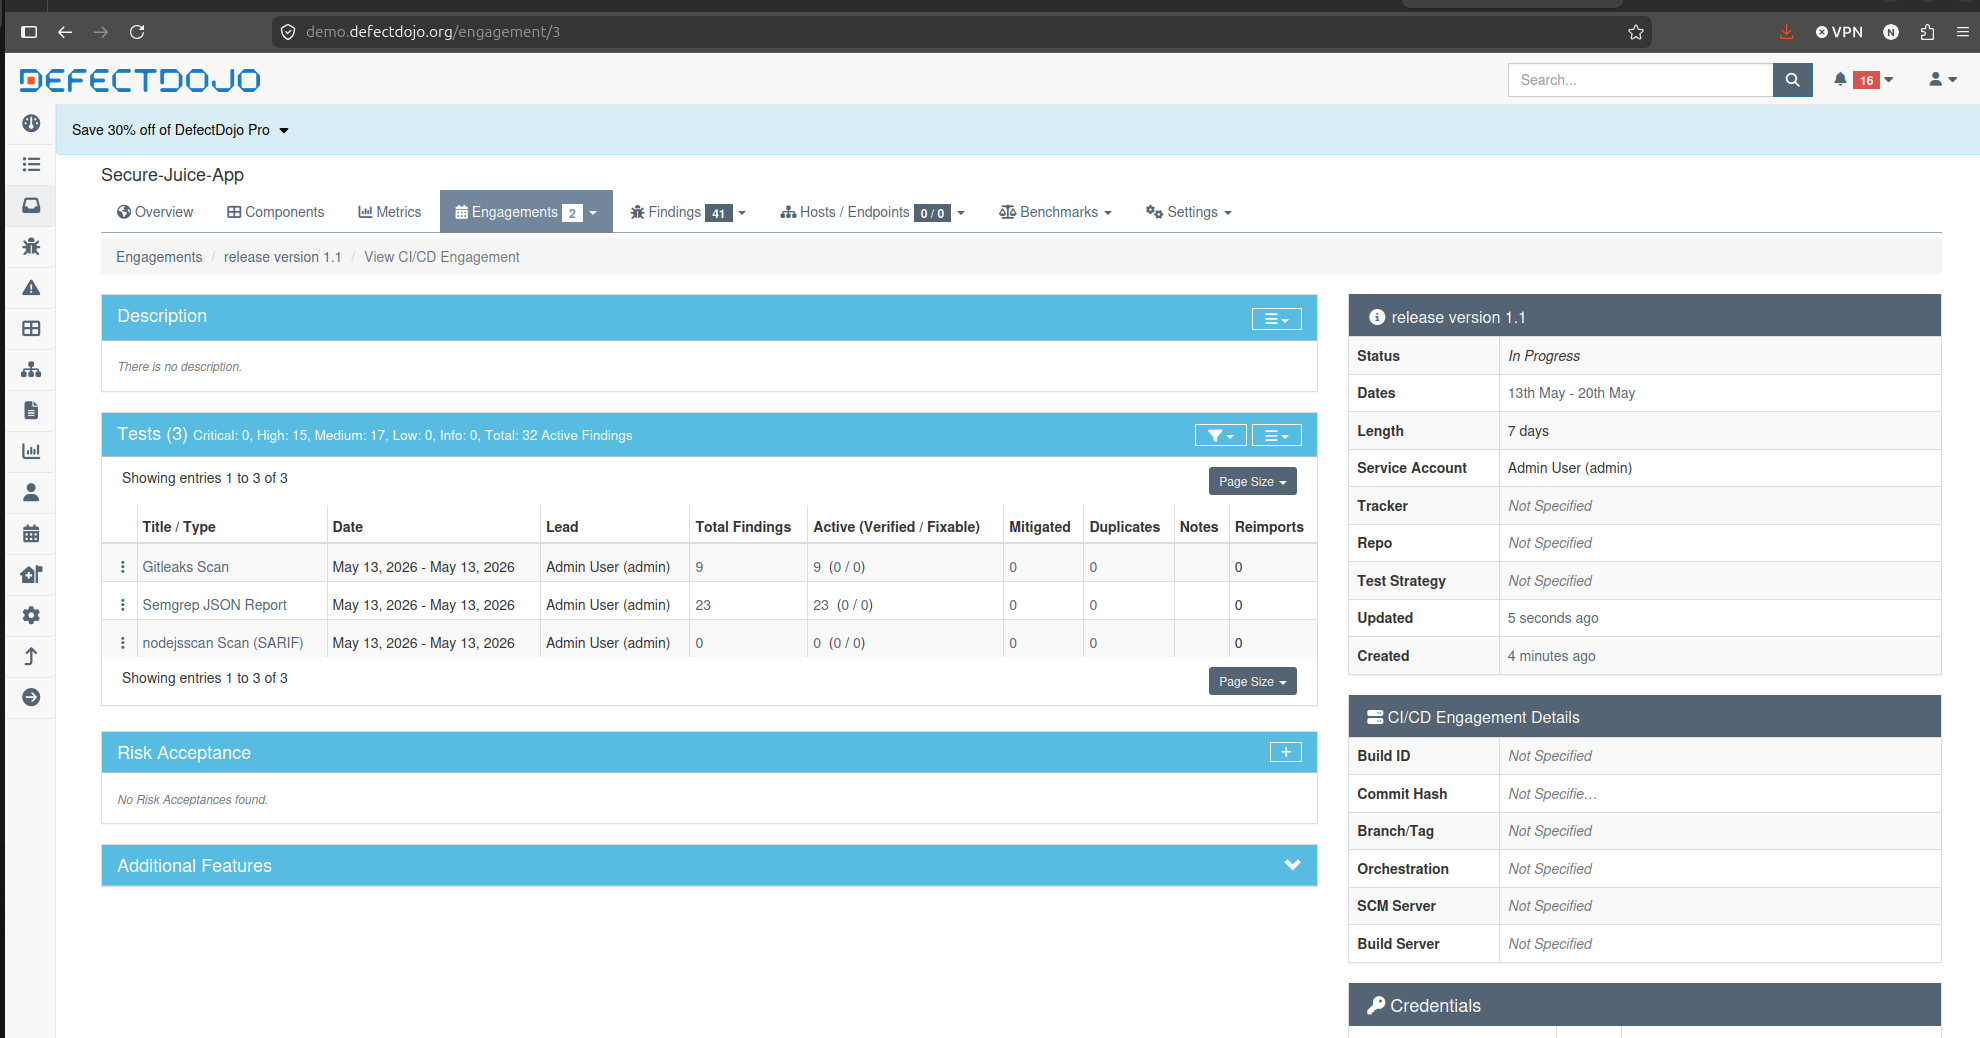
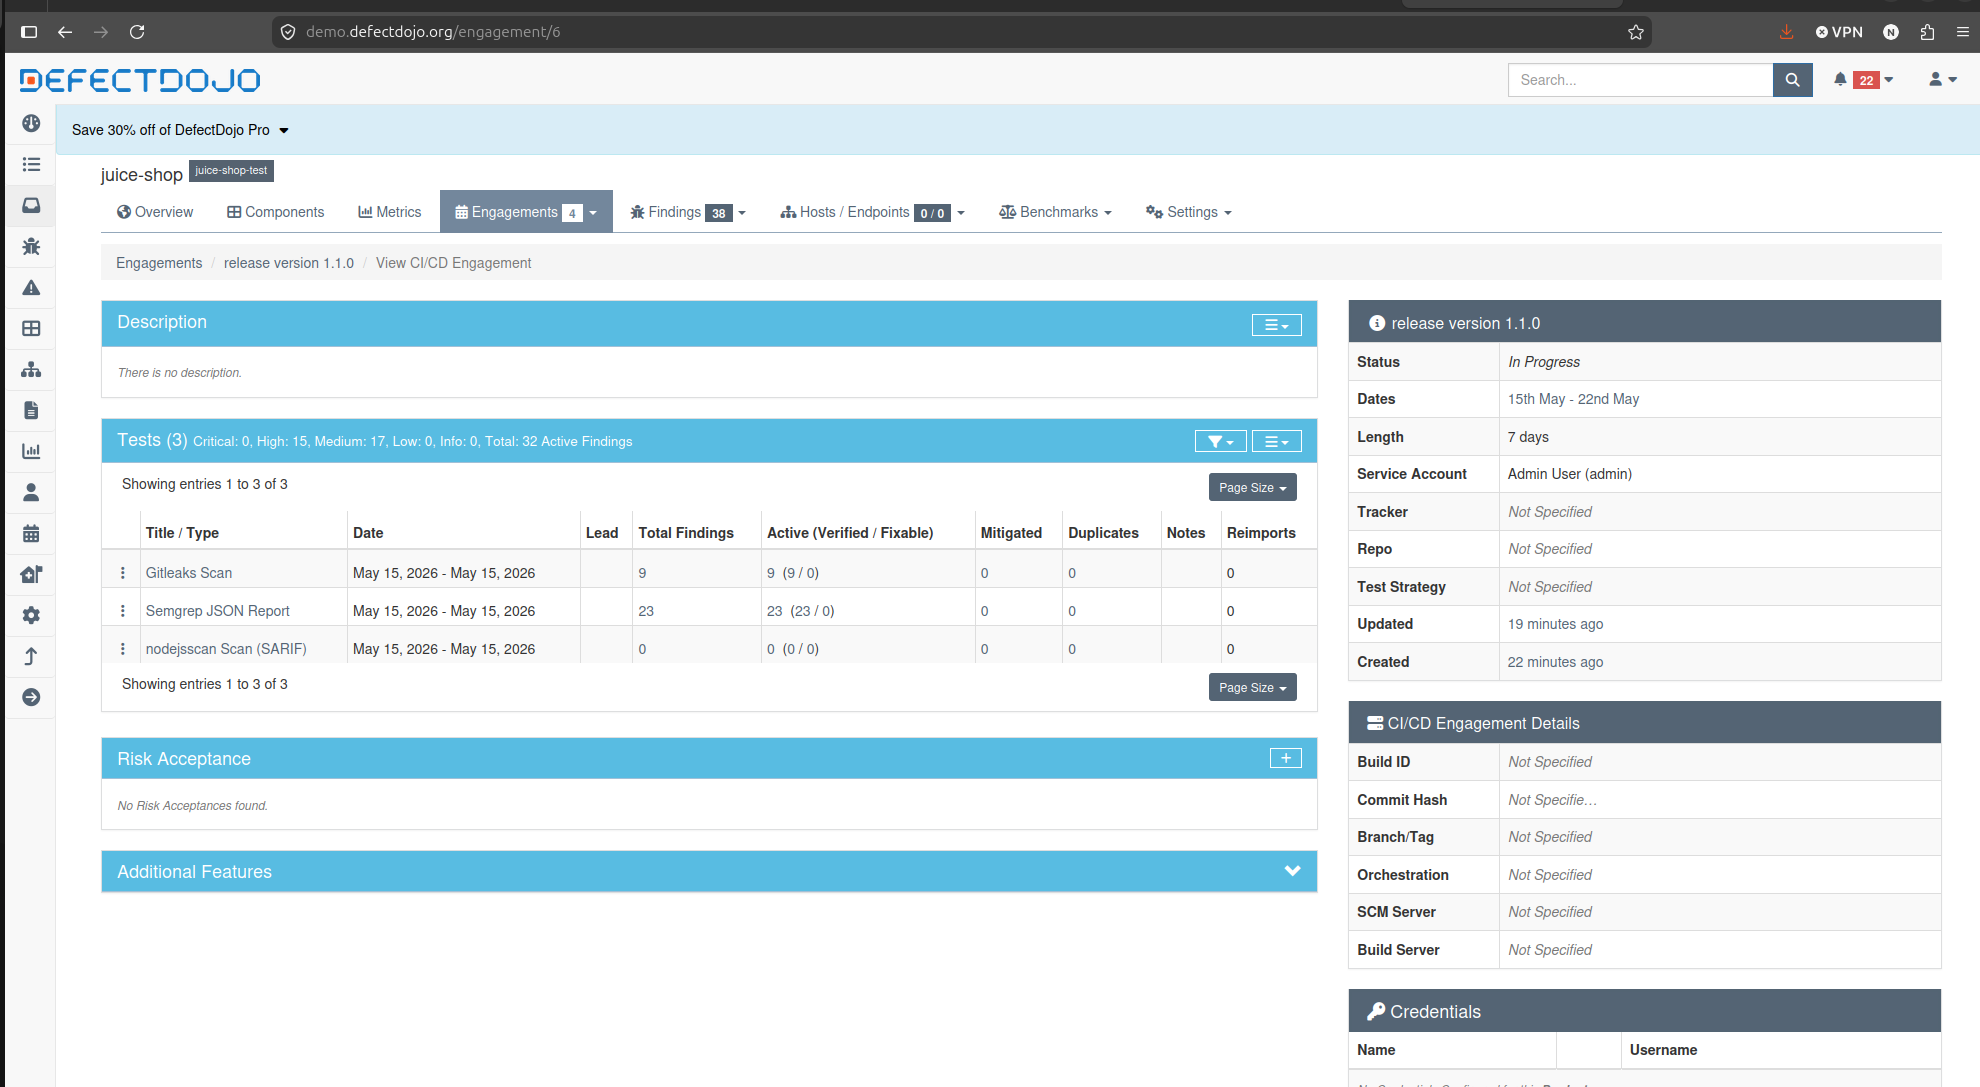
ci: automate DefectDojo report upload via upload_reports job

Changed region(s): [[0.0, 0.0308, 1.0, 1.0], [0.4929, 0.5549, 0.5545, 0.5857], [0.6162, 0.5549, 0.647, 0.5857]]

diff --git a/README.md b/README.md
@@ -65,25 +65,26 @@ For a detailed introduction, full list of features and architecture overview ple
 
 ## CI Pipeline
 
-This project implements a **DevSecOps CI pipeline** using [GitHub Actions](https://github.com/features/actions), integrating automated security controls directly into the software delivery lifecycle. The pipeline is triggered on every `git push` and orchestrates six jobs across two execution stages:
+This project implements a **DevSecOps CI pipeline** using [GitHub Actions](https://github.com/features/actions), integrating automated security controls directly into the software delivery lifecycle. The pipeline is triggered on every `git push` and orchestrates seven jobs across two execution stages:
 
 - **Stage 1 — Parallel security scanning and test execution:** `create_cache`, `yarn_test`, `gitleaks`, `njsscan`, and `semgrep` run concurrently, maximising feedback speed.
-- **Stage 2 — Gated image delivery:** `build_image` executes only after all Stage 1 jobs complete, ensuring no artefact is published without passing security validation and functional testing.
+- **Stage 2 — Gated delivery and automated reporting:** `upload_reports` automatically imports scan artefacts into DefectDojo via REST API; `build_image` builds and pushes the Docker image to the registry. Both run in parallel once Stage 1 completes.
 
 ### Pipeline Architecture
 
 ```
 git push
     │
-    ├── create_cache    ← Installs and caches dependencies (node_modules / .yarn)
+    ├── create_cache      ← Installs and caches dependencies (node_modules / .yarn)
     │       │
-    │   yarn_test       ← Restores cache and executes unit test suite
-    │       │
-    ├── gitleaks        ← Scans full git history for secrets; outputs SARIF (continue-on-error)
-    ├── njsscan         ← Node.js SAST; uploads findings to GitHub Code Scanning via SARIF
-    ├── semgrep         ← Multi-language SAST using p/javascript ruleset (continue-on-error)
-    │       │
-    └───────┴── build_image  ← Docker build & push to registry (needs: all above)
+    │   yarn_test ────────────────────────────────────────────────────────┐
+    │                                                                      │
+    ├── gitleaks ─────────────────────────────────────────┬───────────────┤
+    ├── njsscan  ─────────────────────────────────────────┤               │
+    ├── semgrep  ─────────────────────────────────────────┤               │
+    │                                                     │               │
+    │                                            upload_reports      build_image
+    │                                            (→ DefectDojo API)  (→ Docker Hub)
 ```
 
 ![CI Pipeline Run](screenshots/sast-ci-pipeline.png)
@@ -97,97 +98,8 @@ git push
 | `gitleaks` | `zricethezav/gitleaks:latest` | On every push (`continue-on-error: true`) | `gitleaks.json` uploaded as pipeline artifact |
 | `njsscan` | `ajinabraham/njsscan-action@master` | On every push | `results.sarif` uploaded to GitHub Code Scanning + `njsscan.sarif` artifact |
 | `semgrep` | `semgrep/semgrep` | On every push (`continue-on-error: true`) | `semgrep.json` uploaded as pipeline artifact |
+| `upload_reports` | `python:3` | `needs: [gitleaks, njsscan, semgrep]` | `gitleaks.json`, `njsscan.sarif`, `semgrep.json` imported into DefectDojo via REST API |
 | `build_image` | `docker:24` (DinD) | `needs: [yarn_test, gitleaks, njsscan, semgrep]` | `ndubuisip/demo-app:juice-shop-1.2` pushed to Docker Hub |
-
----
-
-### Stage 1 — Security Scanning
-
-#### Secret Detection: Gitleaks
-
-Gitleaks performs retrospective secret scanning across the full git history on every push, targeting hardcoded credentials including API keys, passwords, tokens, and private keys. The job is configured with `continue-on-error: true` to maintain pipeline continuity during active remediation, while ensuring findings remain fully visible to engineering teams.
-
-**Scan command:**
-```bash
-gitleaks detect --source . --verbose -f json -r gitleaks.json
-```
-
-Findings are serialised to JSON and uploaded as a downloadable pipeline artifact (`gitleaks-report`) via `actions/upload-artifact@v4` using an `if: always()` condition — guaranteeing report preservation regardless of whether the scan exits with an error. This report is available for download from the **GitHub Actions run → Artifacts** section for offline triage and audit.
-
-**Scan results — 37 commits scanned (~9.16 MB):**
-
-| Rule ID | Affected Files |
-|---|---|
-| `generic-api-key` | `data/static/users.yml`, `routes/login.ts`, `test/api/*`, `frontend/src/app/*` |
-| `jwt` | `test/server/verifySpec.ts`, `test/server/currentUserSpec.ts`, `test/cypress/integration/e2e/forgedJwt.spec.ts` |
-| `private-key` | `lib/insecurity.ts` |
-
-An initial scan identified **43 leaks**. After applying allowlist configuration (see below), findings were reduced to **10 verified production secrets**.
-
-![Gitleaks CI Output](screenshots/gitleaks-findings.png)
-
-#### False Positive Suppression — `.gitleaks.toml`
-
-The majority of initial findings originated from test fixtures (`test/`, `*.spec.ts`) containing intentional mock credentials — classified as false positives. A `.gitleaks.toml` configuration file was introduced at the repository root to apply an allowlist, scoping scans to production code only.
-
-```toml
-[extend]
-useDefault = true
-
-[allowlist]
-paths = ['test', '.*\/test\/.*']
-```
-
-| Directive | Purpose |
-|---|---|
-| `useDefault = true` | Extends the built-in gitleaks ruleset without overriding default detection logic |
-| `paths` allowlist | Excludes all files within `test/` directories from secret detection |
-
-**Result:** 43 initial findings reduced to **10 verified leaks** across 37 commits (~9.16 MB), isolating genuine secrets in `lib/insecurity.ts` and `routes/login.ts` for targeted remediation.
-
-![Gitleaks False Positive Suppression](screenshots/gitleaks-false-positive.png)
-
----
-
-#### SAST: njsscan
-
-`njsscan` is a Node.js-specific static analysis tool that identifies insecure coding patterns, dangerous API usage, and known vulnerability signatures in JavaScript and TypeScript source code.
-
-**CI job configuration:**
-- Action: `ajinabraham/njsscan-action@master`
-- Arguments: `. --sarif --output results.sarif --exit-warning`
-- `--exit-warning` — exits non-zero on findings without causing a hard pipeline failure
-- Requires `permissions: security-events: write` to publish SARIF results
-- Findings are uploaded to **GitHub Security → Code Scanning** via `github/codeql-action/upload-sarif@v4`, providing a queryable, persistent record of vulnerabilities per commit
-- The SARIF report is additionally saved as a downloadable artifact (`njsscan.sarif`) via `actions/upload-artifact@v4` with `if: always()`, ensuring report availability for offline review regardless of job outcome
-
-![njsscan CI Output](screenshots/njsscan-results.png)
-
----
-
-#### SAST: Semgrep
-
-`semgrep` is an open-source, multi-language static analysis engine that applies community and custom rulesets to detect security anti-patterns, OWASP Top 10 vulnerabilities, and insecure configurations across JavaScript and TypeScript codebases.
-
-**CI job configuration:**
-- Container: `semgrep/semgrep`
-- Ruleset: `SEMGREP_RULES: p/javascript` (community ruleset)
-- Command: `semgrep ci --json --output semgrep.json`
-- `continue-on-error: true` — pipeline proceeds to `build_image` regardless of findings, maintaining delivery velocity while findings are triaged
-- Findings are serialised to JSON and uploaded as a downloadable artifact (`semgrep.json`) via `actions/upload-artifact@v4` with `if: always()`, ensuring the report is retained for triage regardless of job outcome
-
-**Scan results — latest CI run:**
-
-| Language | Rules Applied | Files Scanned | Ruleset Origin |
-|---|---|---|---|
-| TypeScript (`ts`) | 74 | 401 | Community |
-| JavaScript (`js`) | 68 | 4 | Community |
-
-Semgrep scanned **822 files** using **74 active rules** and reported **23 blocking findings**. Critical findings include SQL injection vulnerabilities in `data/static/codefixes/dbSchemaChallenge_1.ts`, flagged by the `javascript.sequelize.security.audit.sequelize-injection-express` rule — indicating user-controlled input passed directly to Sequelize ORM queries without parameterisation.
-
-![Semgrep CI Output](screenshots/semgrep-results.png)
-
-![Semgrep Summary Results](screenshots/semgrep-summary-results.png)
 
 ---
 
@@ -211,7 +123,7 @@ Artefacts are accessible from the **GitHub Actions run summary → Artifacts** s
 
 ### Vulnerability Management: DefectDojo
 
-Following each pipeline run, the scan artefacts produced by Gitleaks, Semgrep, and njsscan are imported into **DefectDojo** — an open-source vulnerability management platform — providing a centralised, deduplicated, and auditable view of all security findings across the project lifecycle. This transforms raw scanner output into a structured risk register, enabling systematic triage, remediation tracking, and compliance reporting beyond what GitHub's native Code Scanning surface provides.
+Scan artefacts produced by Gitleaks, Semgrep, and njsscan are automatically imported into **DefectDojo** — an open-source vulnerability management platform — on every pipeline run via a dedicated `upload_reports` CI job. This eliminates manual report handling, providing a centralised, deduplicated, and auditable vulnerability register that is updated continuously with every code push.
 
 #### Accessing DefectDojo
 
@@ -245,19 +157,72 @@ Navigate to **http://localhost:8080** and log in with `admin` and the password r
 
 ---
 
-#### Engagement Configuration
+#### Automated Report Upload — `upload_reports` Job
 
-An engagement named **"release version 1.1"** was created within DefectDojo under the **Secure-Juice-App** product, scoped to a 7-day assessment window (13th–20th May). Three scan imports were performed, each mapped to the corresponding scanner format:
+The `upload_reports` job runs in a `python:3` container and executes only after `gitleaks`, `njsscan`, and `semgrep` have all completed (`needs: [gitleaks, njsscan, semgrep]`). It downloads the three scan artefacts from the GitHub Actions artefact store and imports each one into DefectDojo via the REST API.
 
-| Test Name | Import Format | Active Findings |
-|---|---|---|
-| Gitleaks Scan | Gitleaks JSON | 9 |
-| Semgrep JSON Report | Semgrep JSON | 23 |
-| nodejsscan Scan | NodeJsScan SARIF | 0 |
+**Job sequence:**
 
-**Total active findings: 41 | High: 15 | Medium: 26**
+```
+gitleaks ──┐
+njsscan  ──┼──► upload_reports (python:3)
+semgrep  ──┘         │
+                     ├── download gitleaks-report   → gitleaks.json
+                     ├── download njsscan.sarif     → njsscan.sarif
+                     ├── download semgrep.json      → semgrep.json
+                     ├── pip install requests
+                     ├── python3 upload-report.py gitleaks.json
+                     ├── python3 upload-report.py njsscan.sarif
+                     └── python3 upload-report.py semgrep.json
+                                  │
+                                  └──► POST /api/v2/import-scan/ → DefectDojo
+```
 
-> **Note:** Total open findings across the product represent the combined output of all three scan imports. DefectDojo aggregates findings at the product level, meaning findings from multiple engagement runs contribute to the overall open count.
+**Authentication:** The API key is stored as a GitHub repository variable (`vars.DEFECTDOJO_API_KEY`) and injected into the job environment as `DEFECTDOJO_API_KEY`. It is never hard-coded in the workflow or the upload script.
+
+#### `upload-report.py` — Script Breakdown
+
+The `upload-report.py` script accepts a single filename argument (`sys.argv[1]`) and maps it to the corresponding DefectDojo `scan_type` before posting to the import API:
+
+| Input File | DefectDojo `scan_type` |
+|---|---|
+| `gitleaks.json` | `Gitleaks Scan` |
+| `njsscan.sarif` | `SARIF` |
+| `semgrep.json` | `Semgrep JSON Report` |
+
+**API call configuration:**
+
+```python
+url  = 'https://demo.defectdojo.org/api/v2/import-scan/'
+
+data = {
+    'active':           True,
+    'verified':         True,
+    'scan_type':        scan_type,      # mapped from filename
+    'minimum_severity': 'Low',
+    'engagement':       6               # targets engagement ID 6
+}
+```
+
+- `active: True` — findings are immediately marked active in the risk register
+- `verified: True` — findings are pre-marked as verified, bypassing manual triage for known scanner output
+- `minimum_severity: 'Low'` — all severity levels are ingested; no findings are filtered at import
+- `engagement: 6` — all reports are imported into a pre-configured DefectDojo engagement, scoping findings to the correct product and release window
+- A HTTP `201 Created` response confirms successful import; any other status code prints the response body for debugging
+
+#### Engagement Findings Summary
+
+Following a successful pipeline run, all three scan reports are imported into engagement ID 6 — **release version 1.1.0** — on the **juice-shop** product in DefectDojo. The engagement is scoped to a 7-day CI/CD window (15th–22nd May) and was created 22 minutes after the pipeline run, with the upload completing 19 minutes after creation.
+
+The screenshot below confirms the automated import via `upload_reports`. All findings are immediately marked **active and verified**, consistent with `active: True` and `verified: True` set in `upload-report.py`:
+
+| Title / Type | Date | Total Findings | Active (Verified / Fixable) | Mitigated | Duplicates |
+|---|---|---|---|---|---|
+| Gitleaks Scan | May 15, 2026 | 9 | 9 (9 / 0) | 0 | 0 |
+| Semgrep JSON Report | May 15, 2026 | 23 | 23 (23 / 0) | 0 | 0 |
+| nodejsscan Scan (SARIF) | May 15, 2026 | 0 | 0 (0 / 0) | 0 | 0 |
+
+**Engagement total: 32 active findings | Critical: 0 | High: 15 | Medium: 17 | Low: 0**
 
 ![DefectDojo Engagement Overview](screenshots/defectdojo-engagement.png)
 